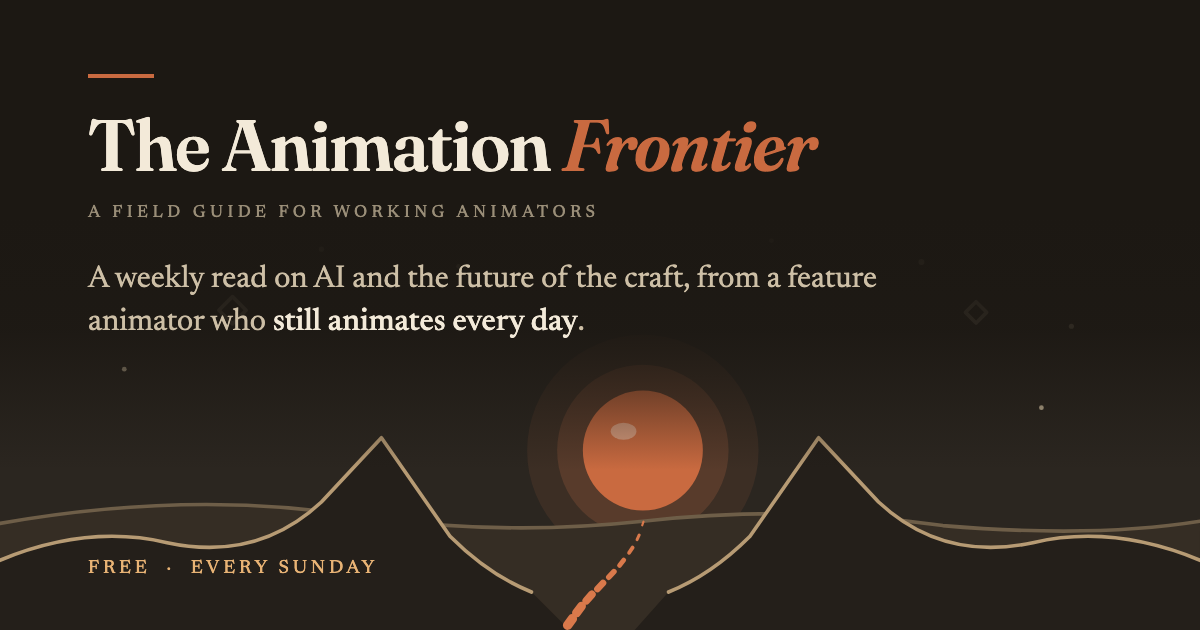
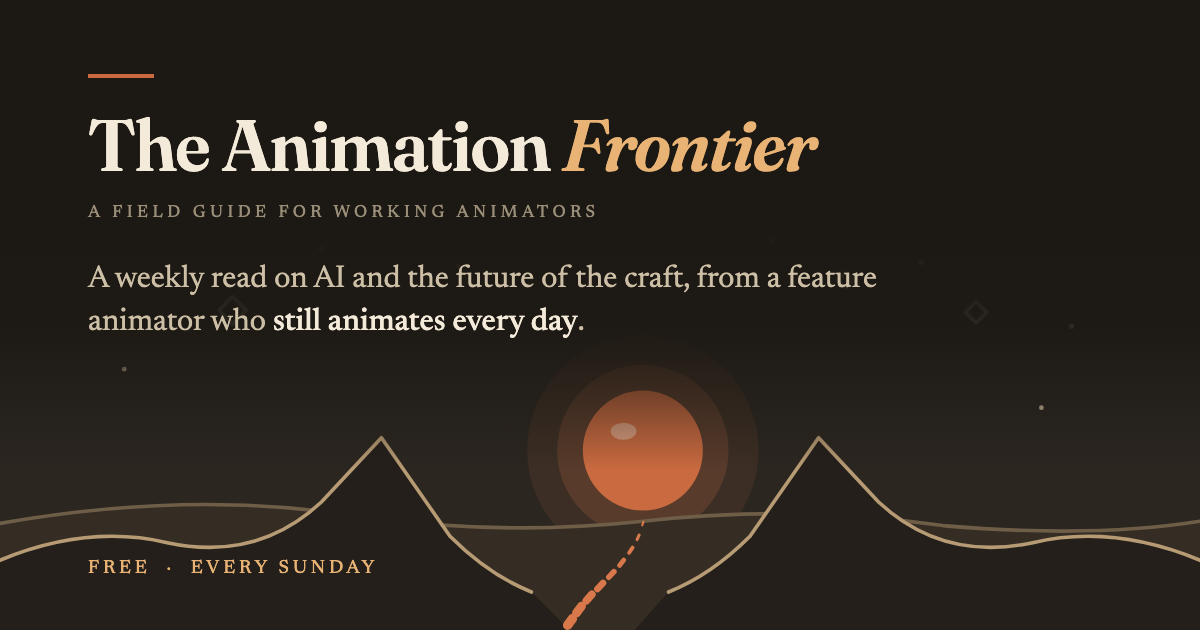
Frontier wordmark on the /join card: terracotta to amber
The canonical dark masthead (logo-frontier-dark.png) renders Frontier in amber.
Terracotta is the light-skin treatment and sits too dark on the night ground.

Changed region(s): [[0.4625, 0.181, 0.6783, 0.2714]]

diff --git a/join/og-card.source.html b/join/og-card.source.html
@@ -28,7 +28,7 @@ body{background:#1C1813; font-family:'Newsreader',Georgia,serif; position:relati
   font-family:'Fraunces',Georgia,serif; font-weight:600;
   font-size:72px; line-height:1.04; letter-spacing:-.018em; color:#F3EAD9;
 }
-.wordmark em{font-style:italic; color:#C96A40}
+.wordmark em{font-style:italic; color:#E8B375}   /* amber, matching the canonical DARK masthead logo-frontier-dark.png; terracotta is the LIGHT-skin treatment */
 .kicker{
   font-size:17px; font-weight:500; letter-spacing:.26em; text-transform:uppercase;
   color:#9A8E78; margin-top:22px;
